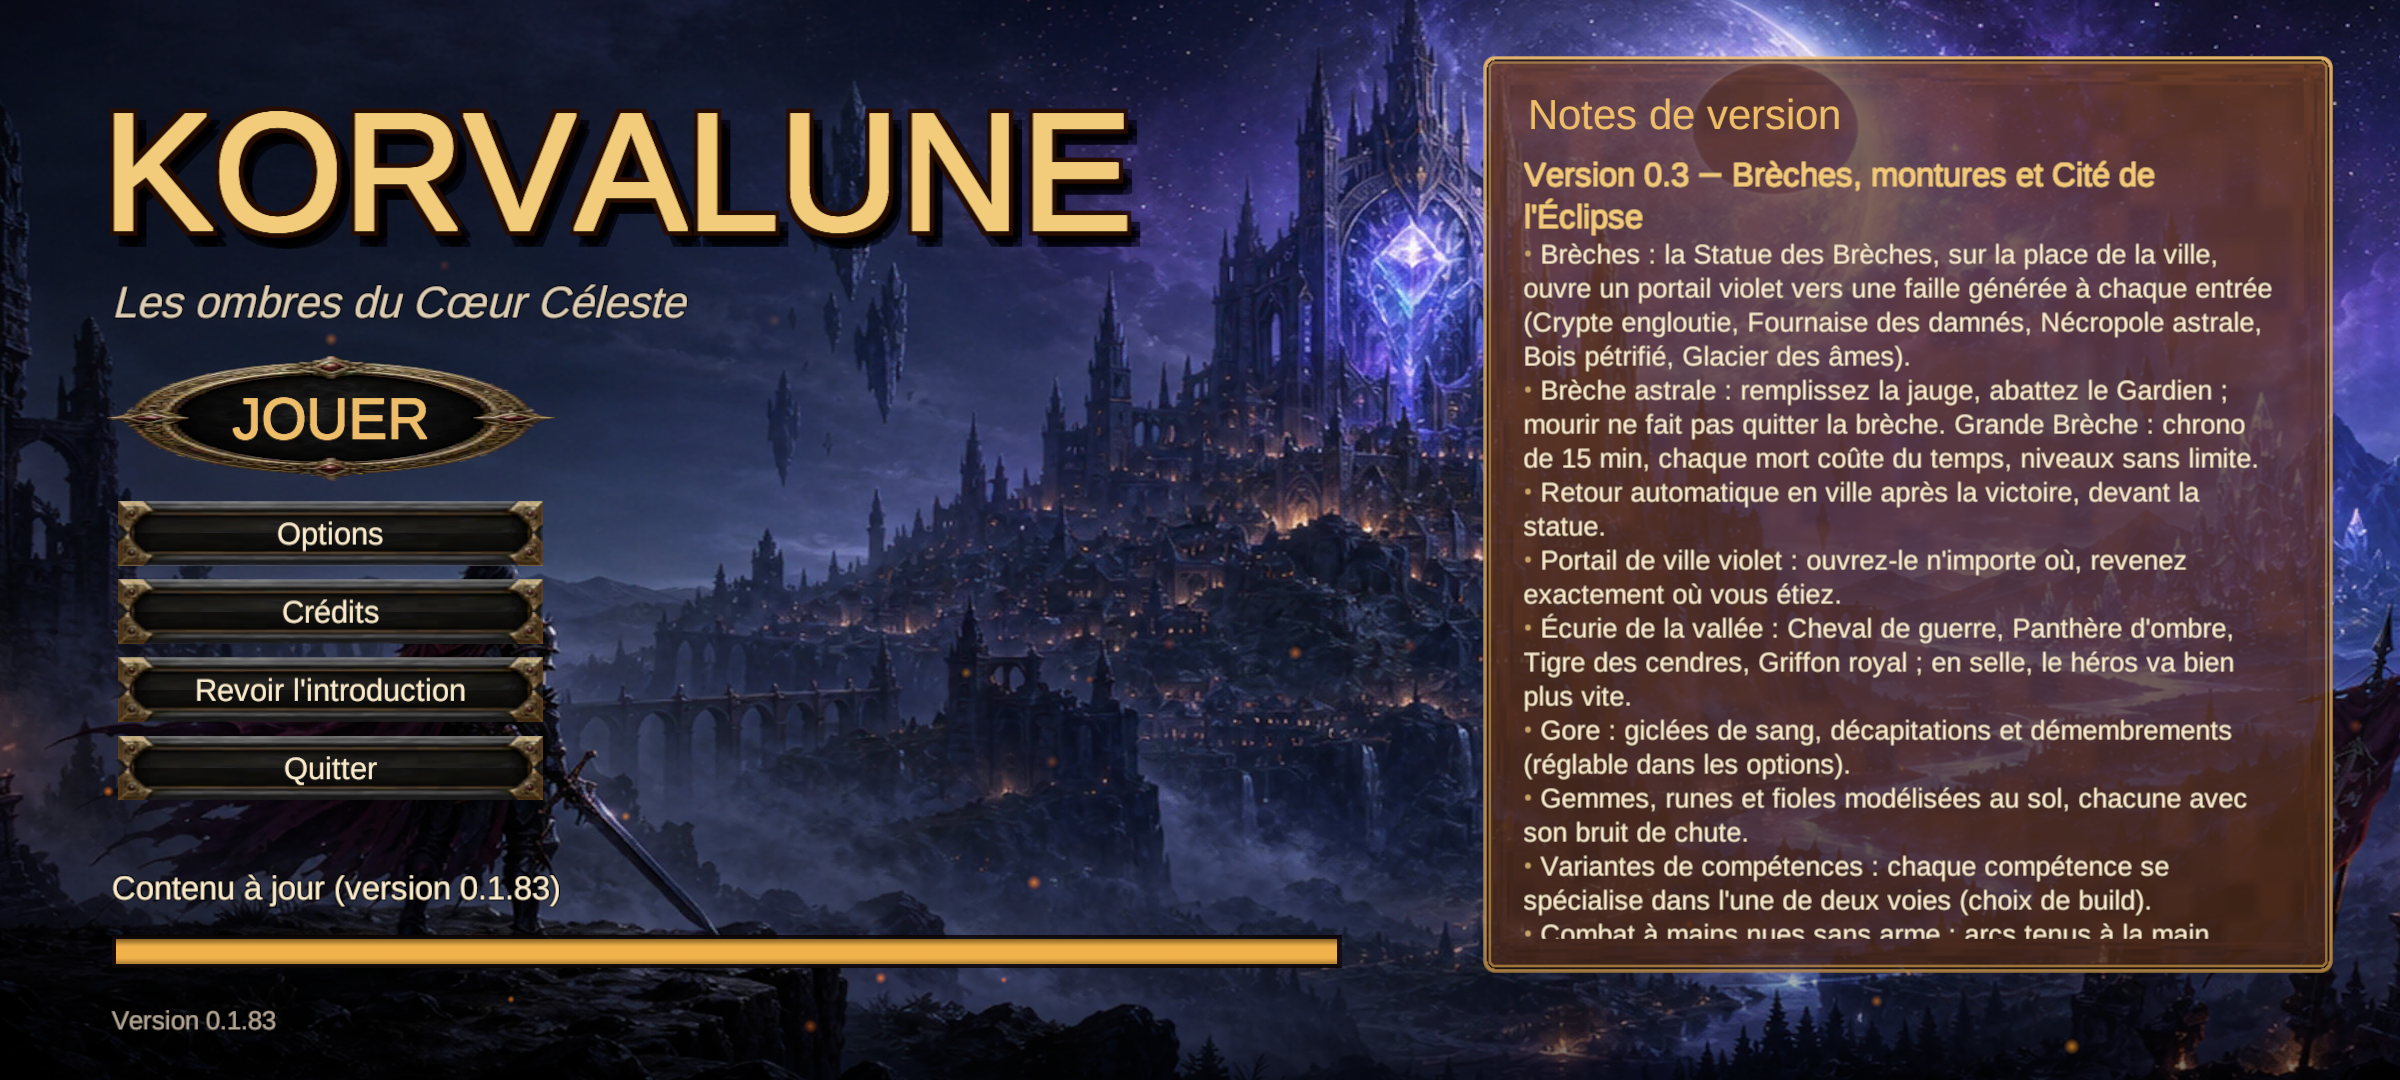
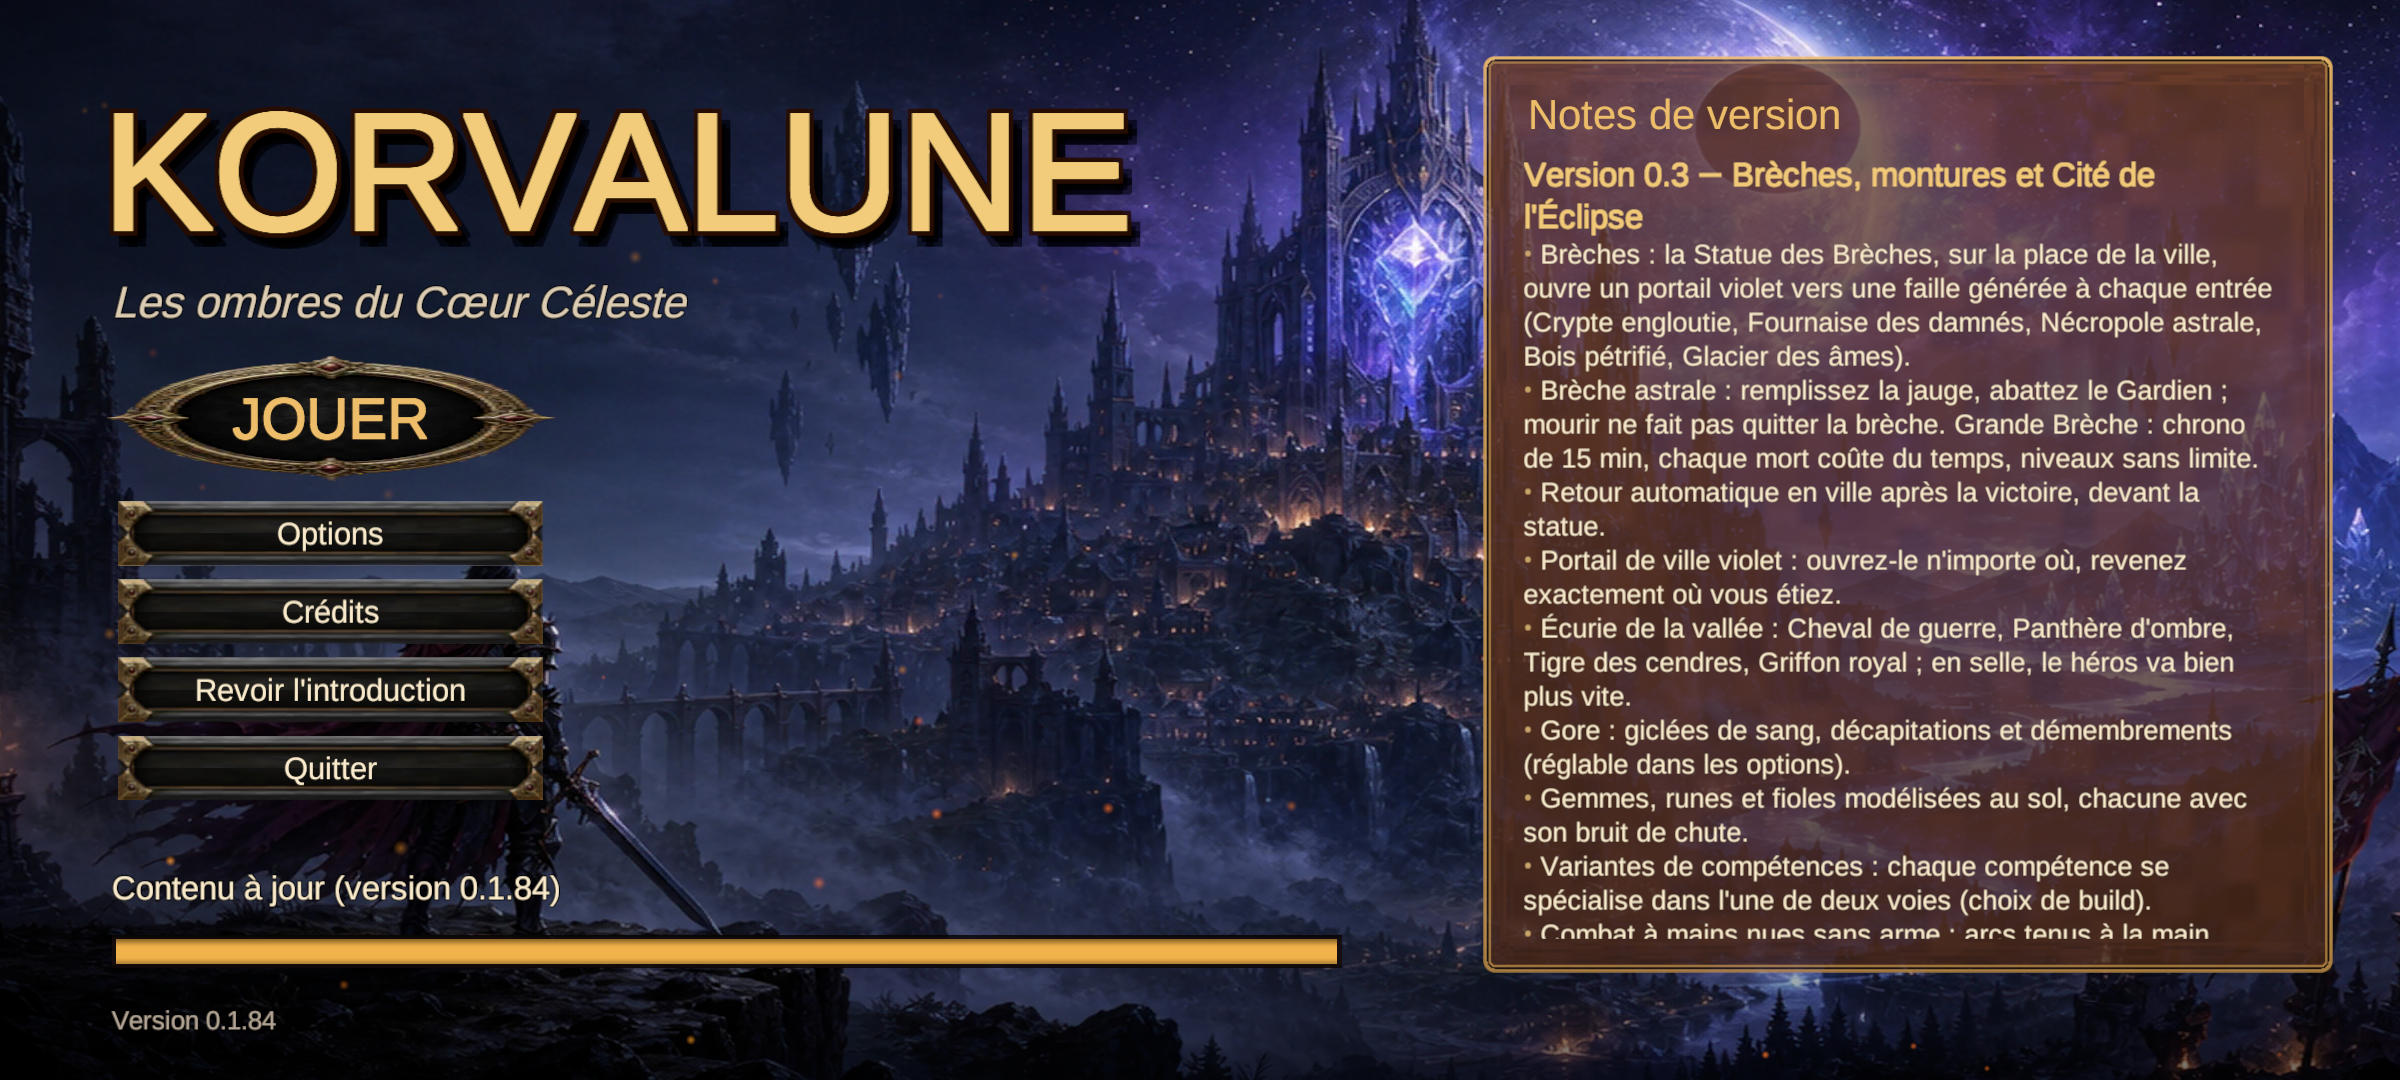
Android : APK construit et testé dans l'émulateur [skip ci]

diff --git a/ci-out/android/build.md b/ci-out/android/build.md
@@ -3,10 +3,10 @@
 - Scènes : Korvalune_Lanceur, Korvalune_Selection, CharacterCreator, Korvalune_Vallee, Korvalune_Crypte, Korvalune_Terriers, Korvalune_Eclipse, Korvalune_Breche
 - Signature : clé Korvalune (mises à jour sans désinstaller)
 - Icône : Assets/Korvalune/Resources/UI/Icone.png
-- Contenu téléchargeable : 92 paquets, 573 Mo (release contenu-83)
+- Contenu téléchargeable : 92 paquets, 580 Mo (release contenu-84)
     - art_catalog_models : 58.3 Mo
     - art_catalog_skins : 34.6 Mo
-    - scenes : 29.4 Mo
+    - scenes : 33.4 Mo
     - art_heroes_varek_f : 19.0 Mo
     - art_heroes_morvanna_f : 18.8 Mo
     - art_heroes_varek_m : 18.5 Mo
@@ -16,13 +16,13 @@
     - art_heroes_kaeldraven_f : 17.2 Mo
     - art_heroes_kaeldraven_m : 16.7 Mo
     - art_heroes_tharion_f : 16.7 Mo
-- Résultat : **Succeeded** en 1.4 min, 0 erreur(s), 12 avertissement(s)
-- APK : 88.0 Mo, version 0.1.83
+- Résultat : **Succeeded** en 3.5 min, 0 erreur(s), 12 avertissement(s)
+- APK : 85.9 Mo, version 0.1.84
 
-## Contenu empaqueté : 33 Mo
-- Texture2D : 16.7 Mo (274)
+## Contenu empaqueté : 29 Mo
+- Texture2D : 17.5 Mo (284)
 - AudioClip : 8.3 Mo (170)
-- Cubemap : 6.6 Mo (23)
+- Cubemap : 1.6 Mo (13)
 - Shader : 1.3 Mo (34)
 - Sprite : 0.1 Mo (210)
 - MonoScript : 0.1 Mo (898)
@@ -40,16 +40,6 @@
 - 1.0 Mo — Assets/Korvalune/Resources/UI/Lanceur_Fond.png
 - 0.7 Mo — Packages/com.unity.render-pipelines.universal/Shaders/PostProcessing/UberPost.shader
 - 0.5 Mo — Resources/unity_builtin_extra
-- 0.5 Mo — Assets/Korvalune/Resources/UI/Icones/coffre.png
-- 0.5 Mo — Assets/Korvalune/Resources/UI/Icones/quete.png
-- 0.5 Mo — Assets/Korvalune/Resources/UI/Icones/portail.png
-- 0.5 Mo — Assets/Korvalune/Resources/UI/Icones/potion.png
-- 0.5 Mo — Assets/Korvalune/Resources/UI/Icones/attack.png
-- 0.5 Mo — Assets/Korvalune/Resources/UI/Icones/bag.png
-- 0.5 Mo — Assets/Korvalune/Resources/UI/Icones/map.png
-- 0.5 Mo — Assets/Korvalune/Resources/UI/Icones/menu.png
-- 0.5 Mo — Assets/Korvalune/Resources/UI/Icones/book.png
-- 0.5 Mo — Assets/Korvalune/Resources/UI/Icones/mana.png
 - 0.3 Mo — Packages/com.unity.render-pipelines.universal/Textures/SMAA/AreaTex.tga
 - 0.3 Mo — Packages/com.unity.render-pipelines.universal/Textures/FilmGrain/Medium01.png
 - 0.3 Mo — Packages/com.unity.render-pipelines.universal/Textures/FilmGrain/Medium05.png
@@ -64,49 +54,59 @@
 - 0.2 Mo — Assets/Korvalune/Resources/UI/Kit/Panneau.png
 - 0.2 Mo — Assets/Korvalune/Resources/UI/Icone_Peinte.png
 - 0.1 Mo — Assets/Korvalune/Resources/UI/Icone.png
+- 0.1 Mo — Packages/com.unity.render-pipelines.universal/Shaders/PostProcessing/FinalPost.shader
+- 0.1 Mo — Assets/Korvalune/Resources/Icons/Rune_de_Puissance.png
+- 0.1 Mo — Assets/Korvalune/Resources/Icons/Potion_de_mana.png
+- 0.1 Mo — Assets/Korvalune/Resources/Icons/Rune_d_Esprit.png
+- 0.1 Mo — Assets/Korvalune/Resources/Icons/Rune_de_Sagesse.png
+- 0.1 Mo — Assets/Korvalune/Resources/Icons/Rune_de_Vivacite.png
+- 0.1 Mo — Assets/Korvalune/Resources/Icons/Potion_de_soin.png
+- 0.1 Mo — Assets/Korvalune/Resources/Icons/Rune_d_Ardeur.png
+- 0.1 Mo — Assets/Korvalune/Resources/Icons/Amethyste.png
+- 0.1 Mo — Assets/Korvalune/Resources/Icons/Topaze.png
 
 ## Mémoire pendant la construction (dernières mesures)
 ```
-14:18:36 ram 4452/15983 swap 0/16383  2856884 Unity 445180 dotnet 
-14:18:41 ram 4540/15983 swap 0/16383  2691596 Unity 445156 dotnet 
-14:18:46 ram 4582/15983 swap 0/16383  2844916 Unity 429484 dotnet 
-14:18:51 ram 4667/15983 swap 0/16383  2936688 Unity 429480 dotnet 
-14:18:56 ram 4608/15983 swap 0/16383  2816360 Unity 429480 dotnet 
-14:19:01 ram 4675/15983 swap 0/16383  2892568 Unity 429480 dotnet 
-14:19:06 ram 4896/15983 swap 0/16383  3094884 Unity 429408 dotnet 
-14:19:11 ram 4778/15983 swap 0/16383  3054324 Unity 429408 dotnet 
-14:19:16 ram 5030/15983 swap 0/16383  3175396 Unity 429408 dotnet 
-14:19:21 ram 4876/15983 swap 0/16383  3080240 Unity 429408 dotnet 
-14:19:26 ram 4950/15983 swap 0/16383  3130128 Unity 429408 dotnet 
-14:19:31 ram 5050/15983 swap 0/16383  3228164 Unity 429408 dotnet 
-14:19:36 ram 4895/15983 swap 0/16383  3033844 Unity 429408 dotnet 
-14:19:41 ram 4885/15983 swap 0/16383  3068360 Unity 429408 dotnet 
-14:19:46 ram 4926/15983 swap 0/16383  3165248 Unity 429428 dotnet 
-14:19:51 ram 5412/15983 swap 0/16383  3689596 Unity 429428 dotnet 
-14:19:56 ram 5606/15983 swap 0/16383  3642744 Unity 429428 dotnet 
-14:20:01 ram 5601/15983 swap 0/16383  3897876 Unity 429428 dotnet 
-14:20:06 ram 5575/15983 swap 0/16383  3827500 Unity 429408 dotnet 
-14:20:11 ram 5955/15983 swap 0/16383  3926608 Unity 429408 dotnet 
-14:20:16 ram 5796/15983 swap 0/16383  3938184 Unity 429412 dotnet 
-14:20:21 ram 5910/15983 swap 0/16383  3872556 Unity 429412 dotnet 
-14:20:26 ram 5944/15983 swap 0/16383  3925408 Unity 429412 dotnet 
-14:20:31 ram 5986/15983 swap 0/16383  3928680 Unity 429412 dotnet 
-14:20:36 ram 6295/15983 swap 0/16383  3934888 Unity 429412 dotnet 
-14:20:41 ram 6310/15983 swap 0/16383  3934872 Unity 429412 dotnet 
-14:20:46 ram 6267/15983 swap 0/16383  3934856 Unity 429432 dotnet 
-14:20:51 ram 6354/15983 swap 0/16383  3934856 Unity 431752 java 
-14:20:56 ram 6526/15983 swap 0/16383  3934816 Unity 522764 java 
-14:21:01 ram 6565/15983 swap 0/16383  3934804 Unity 666960 java 
-14:21:06 ram 6946/15983 swap 0/16383  3934792 Unity 973736 java 
-14:21:11 ram 7500/15983 swap 0/16383  3934624 Unity 1619252 java 
-14:21:16 ram 7997/15983 swap 0/16383  3934624 Unity 1967812 java 
-14:21:22 ram 7641/15983 swap 0/16383  3934624 Unity 1537456 java 
-14:21:27 ram 7711/15983 swap 0/16383  3934608 Unity 1721840 java 
-14:21:32 ram 7645/15983 swap 0/16383  3934604 Unity 1728412 java 
-14:21:37 ram 7856/15983 swap 0/16383  3934604 Unity 1937804 java 
-14:21:42 ram 7862/15983 swap 0/16383  3935324 Unity 1988784 java 
-14:21:47 ram 5595/15983 swap 0/16383  3714992 Unity 429444 dotnet 
-14:21:52 ram 1608/15983 swap 0/16383  193172 MainThread 151672 provjobd2663030 
+15:24:03 ram 7508/15983 swap 5/16383  3652916 Unity 2021112 il2cpp 
+15:24:08 ram 7695/15983 swap 5/16383  3652900 Unity 2204820 il2cpp 
+15:24:13 ram 6100/15983 swap 5/16383  3652888 Unity 435948 dotnet 
+15:24:18 ram 6246/15983 swap 5/16383  3652892 Unity 435948 dotnet 
+15:24:23 ram 6208/15983 swap 5/16383  3652892 Unity 435928 dotnet 
+15:24:28 ram 6318/15983 swap 5/16383  3652892 Unity 436652 clang++ 
+15:24:33 ram 6308/15983 swap 5/16383  3652892 Unity 452004 clang++ 
+15:24:38 ram 6380/15983 swap 5/16383  3652892 Unity 481792 clang++ 
+15:24:43 ram 6347/15983 swap 5/16383  3652892 Unity 518080 clang++ 
+15:24:48 ram 5921/15983 swap 5/16383  3652892 Unity 435992 dotnet 
+15:24:54 ram 5961/15983 swap 5/16383  3652892 Unity 436000 dotnet 
+15:24:59 ram 6207/15983 swap 5/16383  3652892 Unity 536948 ld.lld 
+15:25:04 ram 5994/15983 swap 5/16383  3651292 Unity 453776 clang++ 
+15:25:09 ram 6318/15983 swap 5/16383  3651292 Unity 780396 clang++ 
+15:25:14 ram 6757/15983 swap 5/16383  3651284 Unity 1227608 clang++ 
+15:25:19 ram 5598/15983 swap 6/16383  3651284 Unity 435980 dotnet 
+15:25:24 ram 5851/15983 swap 6/16383  3654488 Unity 435956 dotnet 
+15:25:29 ram 5939/15983 swap 6/16383  3654488 Unity 435956 dotnet 
+15:25:34 ram 5976/15983 swap 6/16383  3654472 Unity 435956 dotnet 
+15:25:39 ram 6098/15983 swap 6/16383  3654460 Unity 435956 dotnet 
+15:25:44 ram 6205/15983 swap 6/16383  3654448 Unity 540296 java 
+15:25:49 ram 6366/15983 swap 6/16383  3654448 Unity 689696 java 
+15:25:54 ram 6259/15983 swap 6/16383  3654456 Unity 611796 java 
+15:25:59 ram 6312/15983 swap 6/16383  3654420 Unity 667760 java 
+15:26:04 ram 6780/15983 swap 6/16383  3654392 Unity 1138576 java 
+15:26:09 ram 6952/15983 swap 6/16383  3654336 Unity 1301080 java 
+15:26:14 ram 7374/15983 swap 6/16383  3653804 Unity 1712932 java 
+15:26:19 ram 7435/15983 swap 6/16383  3653804 Unity 1754308 java 
+15:26:24 ram 7447/15983 swap 6/16383  3653788 Unity 1761324 java 
+15:26:29 ram 7593/15983 swap 6/16383  3653788 Unity 1827456 java 
+15:26:34 ram 7536/15983 swap 6/16383  3653788 Unity 1843112 java 
+15:26:39 ram 7537/15983 swap 6/16383  3653788 Unity 1846744 java 
+15:26:44 ram 7527/15983 swap 6/16383  3653788 Unity 1855100 java 
+15:26:49 ram 7014/15983 swap 611/16383  3358348 Unity 1924128 java 
+15:26:54 ram 6488/15983 swap 994/16383  3187948 Unity 1734672 java 
+15:27:00 ram 6193/15983 swap 1119/16383  3065904 Unity 1643424 java 
+15:27:05 ram 6342/15983 swap 1054/16383  3217120 Unity 1643428 java 
+15:27:10 ram 4518/15983 swap 987/16383  3142328 Unity 228780 dotnet 
+15:27:15 ram 1525/15983 swap 390/16383  228836 dotnet 191204 MainThread 
+15:27:20 ram 1271/15983 swap 5/16383  191204 MainThread 138136 provjobd4120822 
 ```
 ## Noyau (OOM)
 ```

diff --git a/ci-out/android/test.md b/ci-out/android/test.md
@@ -1,7 +1,7 @@
 # Test de l'APK dans un émulateur Android (API 30, x86_64)
 
 - Android 11
-- APK : 88.0 Mo
+- APK : 85.9 Mo
 - ✅ Installation
 - ✅ Jeu en cours d'exécution à 20 s (capture ecran_20s.png)
 - ✅ Jeu en cours d'exécution à 45 s (capture ecran_45s.png)
@@ -27,8 +27,6 @@
     [Korvalune][test] chargement 90 %
 - ⚠ Partie automatique inachevée (voir partie.txt)
 - ✅ Aucun plantage dans le journal
-- Erreurs Unity dans le journal : 2
-    11-03 14:30:08.115  6054  6117 E Unity   : SharedTextureData source data is NULL.
-    11-03 14:30:08.116  6054  6117 E Unity   : SharedTextureData source data is NULL.
+- Erreurs Unity dans le journal : 0
 
 **RÉSULTAT : OK**
